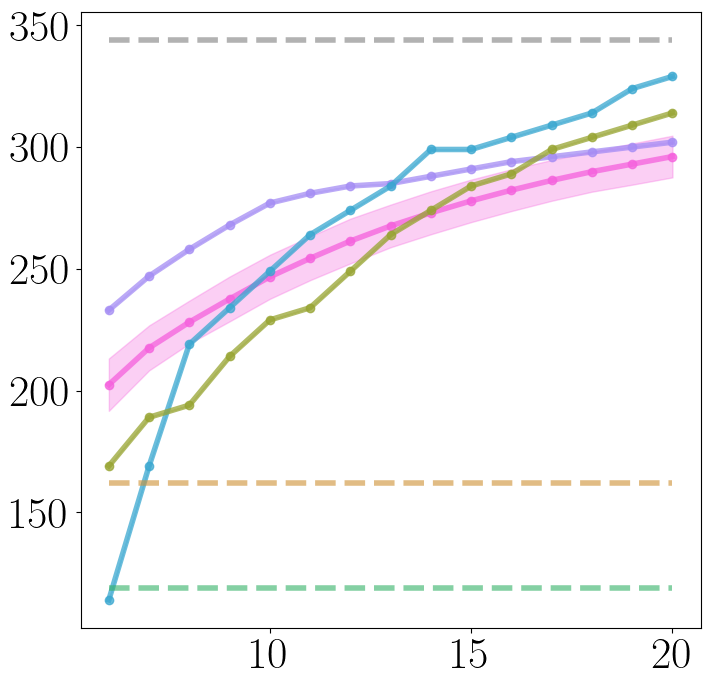
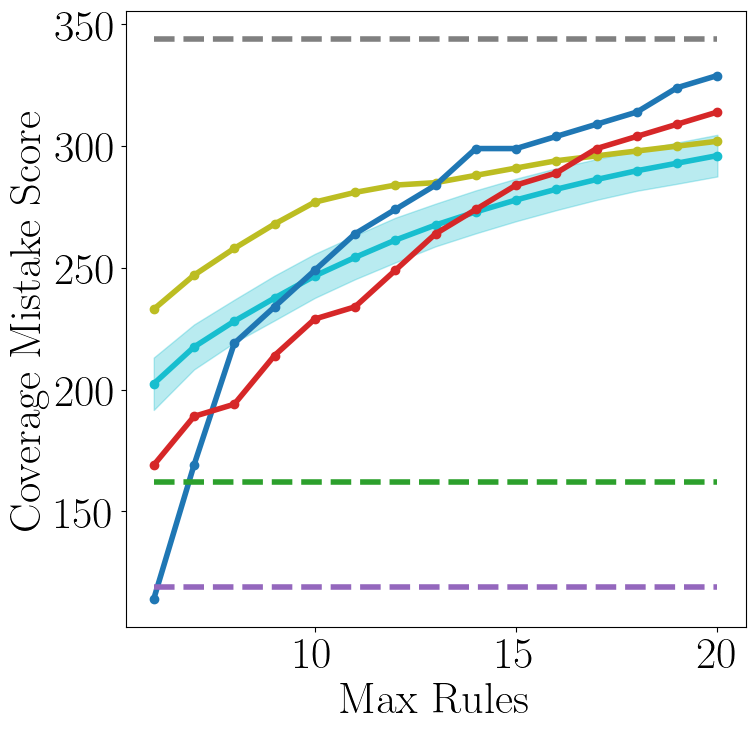
exp updates

Changed region(s): [[0.0, 0.0917, 0.9915, 0.9782], [0.0, 0.0, 0.9915, 0.0917], [0.1549, 0.3362, 0.3099, 0.4585]]

diff --git a/experiments/climate/max_rules.py b/experiments/climate/max_rules.py
@@ -33,35 +33,33 @@ n_samples = 10
 # KMeans:
 kmeans_n_clusters = n_clusters
 kmeans_n_rules_list = list(np.arange(kmeans_n_clusters, max_rules + 1))
-
-# DBSCAN
-n_core = 5
-epsilon = 1.9
-
-density_distances = density_distance(data, n_core = n_core)
 euclidean_distances = pairwise_distances(data)
 
 # Shallow Tree
 depth_factor = 0.03
 
 # Association Rule Mining:
-association_n_mine = 10000
+min_support = 0.01
+min_confidence = 0.5
+max_length = 10
+association_rule_miner = ClassAssociationMiner(
+    min_support = min_support,
+    min_confidence = min_confidence,
+    max_length = max_length
+)
 
 # Pointwise Rule Mining:
 pointwise_samples_per_point = 10
 pointwise_prob_dim = 1/2
 pointwise_prob_stop = 8/10
+pointwise_rule_miner = PointwiseMinerV2(
+    samples = pointwise_samples_per_point,
+    prob_dim = pointwise_prob_dim,
+    prob_stop = pointwise_prob_stop
+)
 
 # IDS:
-ids_lambdas = [
-    1/association_n_mine,
-    1/(2 * data.shape[1] * association_n_mine),
-    1/(len(data) * (association_n_mine**2)),
-    1/(len(data) * (association_n_mine**2)),
-    0,
-    1/(data.shape[0] * association_n_mine),
-    1/(data.shape[0])
-]
+ids_lambdas = [1,0,0,0,0,1,1]
 
 
 ####################################################################################################
@@ -113,44 +111,50 @@ shallow_tree_mod = DecisionTreeMod(
     name = 'Shallow-Tree'
 )
 
+
+# CBA
+cba_params = {
+    tuple(kmeans_n_rules_list) : {
+        'rule_miner' : association_rule_miner,
+    }
+}
+cba_mod = DecisionSetMod(
+    model = CBA,
+    rule_miner = association_rule_miner,
+    name = 'CBA'
+)
+
 # IDS
-association_rule_miner_ids = AssociationRuleMiner(max_rules = association_n_mine, bin_type = 'mdlp')
 ids_params = {
     tuple(kmeans_n_rules_list) : {
         'lambdas' : ids_lambdas,
-        'rule_miner' : association_rule_miner_ids,
+        'rule_miner' : association_rule_miner,
     }
 }
 
 ids_mod = DecisionSetMod(
-    model = IdsSet,
-    rule_miner = association_rule_miner_ids,
+    model = IDS,
+    rule_miner = association_rule_miner,
     name = 'IDS'
 )
 
 
 # Decision Set Clustering (1) -- Entropy Association Rules (same as IDS)
-association_rule_miner_dscluster = AssociationRuleMiner(max_rules = association_n_mine, bin_type = 'mdlp')
 dsclust_params1 = {
     (i,) : {
         'lambd' : lambda_val,
         'n_rules' : i,
-        'rule_miner' : association_rule_miner_dscluster,
+        'rule_miner' : association_rule_miner,
     }
     for i in kmeans_n_rules_list
 }
 dsclust_mod1 = DecisionSetMod(
     model = DSCluster,
-    rule_miner = association_rule_miner_dscluster,
+    rule_miner = association_rule_miner,
     name = 'DSCluster-Association-Rules'
 )
 
 # Decision Set Clustering (2) -- Pointwise Rules
-pointwise_rule_miner = PointwiseMinerV2(
-    samples = pointwise_samples_per_point,
-    prob_dim = pointwise_prob_dim,
-    prob_stop = pointwise_prob_stop,
-)
 dsclust_params2 = {
     (i,) : {
         'lambd' : lambda_val,
@@ -171,6 +175,7 @@ module_list = [
     (rem_tree_mod, rem_tree_params),
     (exkmc_mod, exkmc_params),
     (shallow_tree_mod, shallow_tree_params),
+    (cba_mod, cba_params),
     #(ids_mod, ids_params),
     (dsclust_mod1, dsclust_params1),
     (dsclust_mod2, dsclust_params2)
@@ -192,7 +197,7 @@ measurement_fns = [
     silhouette_measure,
 ]
 
-exp1 = MaxRulesExperiment(
+exp = MaxRulesExperiment(
     data = data,
     n_rules_list = kmeans_n_rules_list,
     baseline = baseline,
@@ -204,132 +209,9 @@ exp1 = MaxRulesExperiment(
 
 import time 
 start = time.time()
-exp1_results = exp1.run()
-exp1.save_results('data/experiments/climate/max_rules/', '_kmeans')
+exp1_results = exp.run()
+exp.save_results('data/experiments/climate/max_rules/', '_kmeans2')
 end = time.time()
 print("Experiment 1 time:", end - start)
 
 ####################################################################################################
-
-# Experiment 2: DBSCAN reference clustering:
-np.random.seed(seed)
-
-# Baseline DBSCAN
-dbscan_base = DBSCANBase(eps=epsilon, n_core=n_core)
-dbscan_assignment = dbscan_base.assign(data)
-dbscan_n_clusters = len(unique_labels(dbscan_base.labels))
-dbscan_n_rules_list = list(np.arange(dbscan_n_clusters, max_rules + 1))
-
-if dbscan_n_clusters < 2:
-    raise ValueError("DBSCAN found less than 2 clusters. Try changing n_core or epsilon.")
-
-# Decision Tree
-decision_tree_params = {(i,) : {'max_leaf_nodes' : i} for i in dbscan_n_rules_list}
-decision_tree_mod = DecisionTreeMod(
-    model = DecisionTree,
-    name = 'Decision-Tree'
-)
-
-# Removal Tree
-rem_tree_params = {tuple(dbscan_n_rules_list) : {'num_clusters' : dbscan_n_clusters}}
-rem_tree_mod = DecisionTreeMod(
-    model = RemovalTree,
-    name = 'Exp-Tree'
-)
-
-
-# IDS
-association_rule_miner_ids = AssociationRuleMiner(max_rules = association_n_mine, bin_type = 'mdlp')
-ids_params = {
-    tuple(dbscan_n_rules_list) : {
-        'lambdas' : ids_lambdas,
-        'rule_miner' : association_rule_miner_ids,
-    }
-}
-ids_mod = DecisionSetMod(
-    model = IdsSet,
-    rule_miner = association_rule_miner_ids,
-    name = 'IDS'
-)
-
-
-# Decision Set Clustering (1) -- Entropy Association Rules (same as IDS)
-association_rule_miner_dscluster = AssociationRuleMiner(max_rules = association_n_mine, bin_type = 'mdlp')
-dsclust_params1 = {
-    (i,) : {
-        'lambd' : lambda_val,
-        'n_rules' : i,
-        'rule_miner' : association_rule_miner_dscluster,
-    }
-    for i in dbscan_n_rules_list
-}
-dsclust_mod1 = DecisionSetMod(
-    model = DSCluster,
-    rule_miner = association_rule_miner_dscluster,
-    name = 'DSCluster-Association-Rules'
-)
-
-# Decision Set Clustering (2) -- Pointwise Rules
-pointwise_rule_miner = PointwiseMinerV2(
-    samples = pointwise_samples_per_point,
-    prob_dim = pointwise_prob_dim,
-    prob_stop = pointwise_prob_stop,
-)
-dsclust_params2 = {
-    (i,) : {
-        'lambd' : lambda_val,
-        'n_rules' : i,
-        'rule_miner' : pointwise_rule_miner,
-    }
-    for i in dbscan_n_rules_list
-}
-dsclust_mod2 = DecisionSetMod(
-    model = DSCluster,
-    rule_miner = pointwise_rule_miner,
-    name = 'DSCluster-Pointwise-Rules'
-)
-
-baseline = dbscan_base
-module_list = [
-    (decision_tree_mod, decision_tree_params),
-    (rem_tree_mod, rem_tree_params),
-    #(ids_mod, ids_params),
-    (dsclust_mod1, dsclust_params1),
-    (dsclust_mod2, dsclust_params2)
-]
-
-coverage_mistake_measure = CoverageMistakeScore(
-    lambda_val = lambda_val,
-    ground_truth_assignment = dbscan_assignment,
-    name = 'coverage-mistake-score'
-)
-
-silhouette_measure = Silhouette(
-    distances = density_distances,
-    name = 'silhouette-score'
-)
-
-measurement_fns = [
-    coverage_mistake_measure,
-    silhouette_measure
-]
-
-exp2 = MaxRulesExperiment(
-    data = data,
-    n_rules_list = dbscan_n_rules_list,
-    baseline = baseline,
-    module_list = module_list,
-    measurement_fns = measurement_fns,
-    n_samples = n_samples,
-    cpu_count = experiment_cpu_count
-)
-
-import time 
-start = time.time()
-exp2_results = exp2.run()
-exp2.save_results('data/experiments/climate/max_rules/', '_dbscan')
-end = time.time()
-print("Experiment 2 time:", end - start)
-
-####################################################################################################
-
